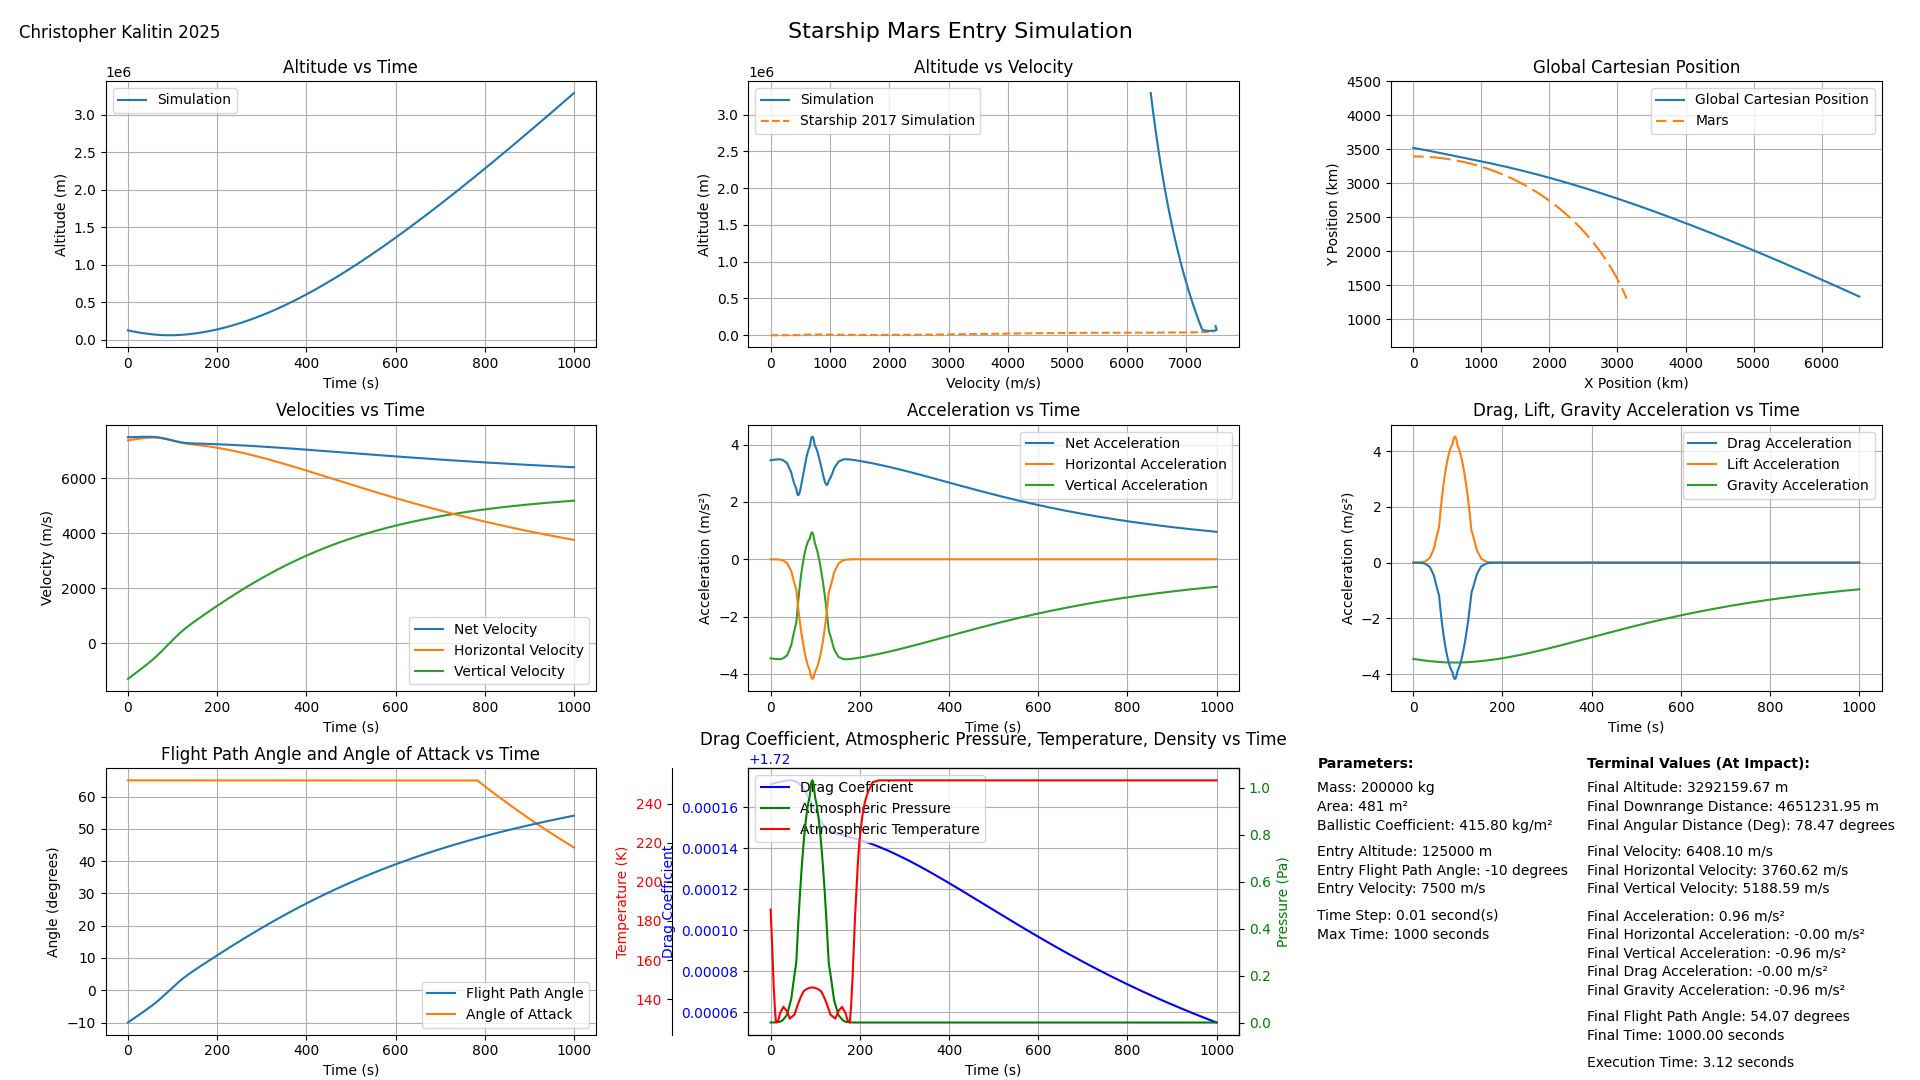
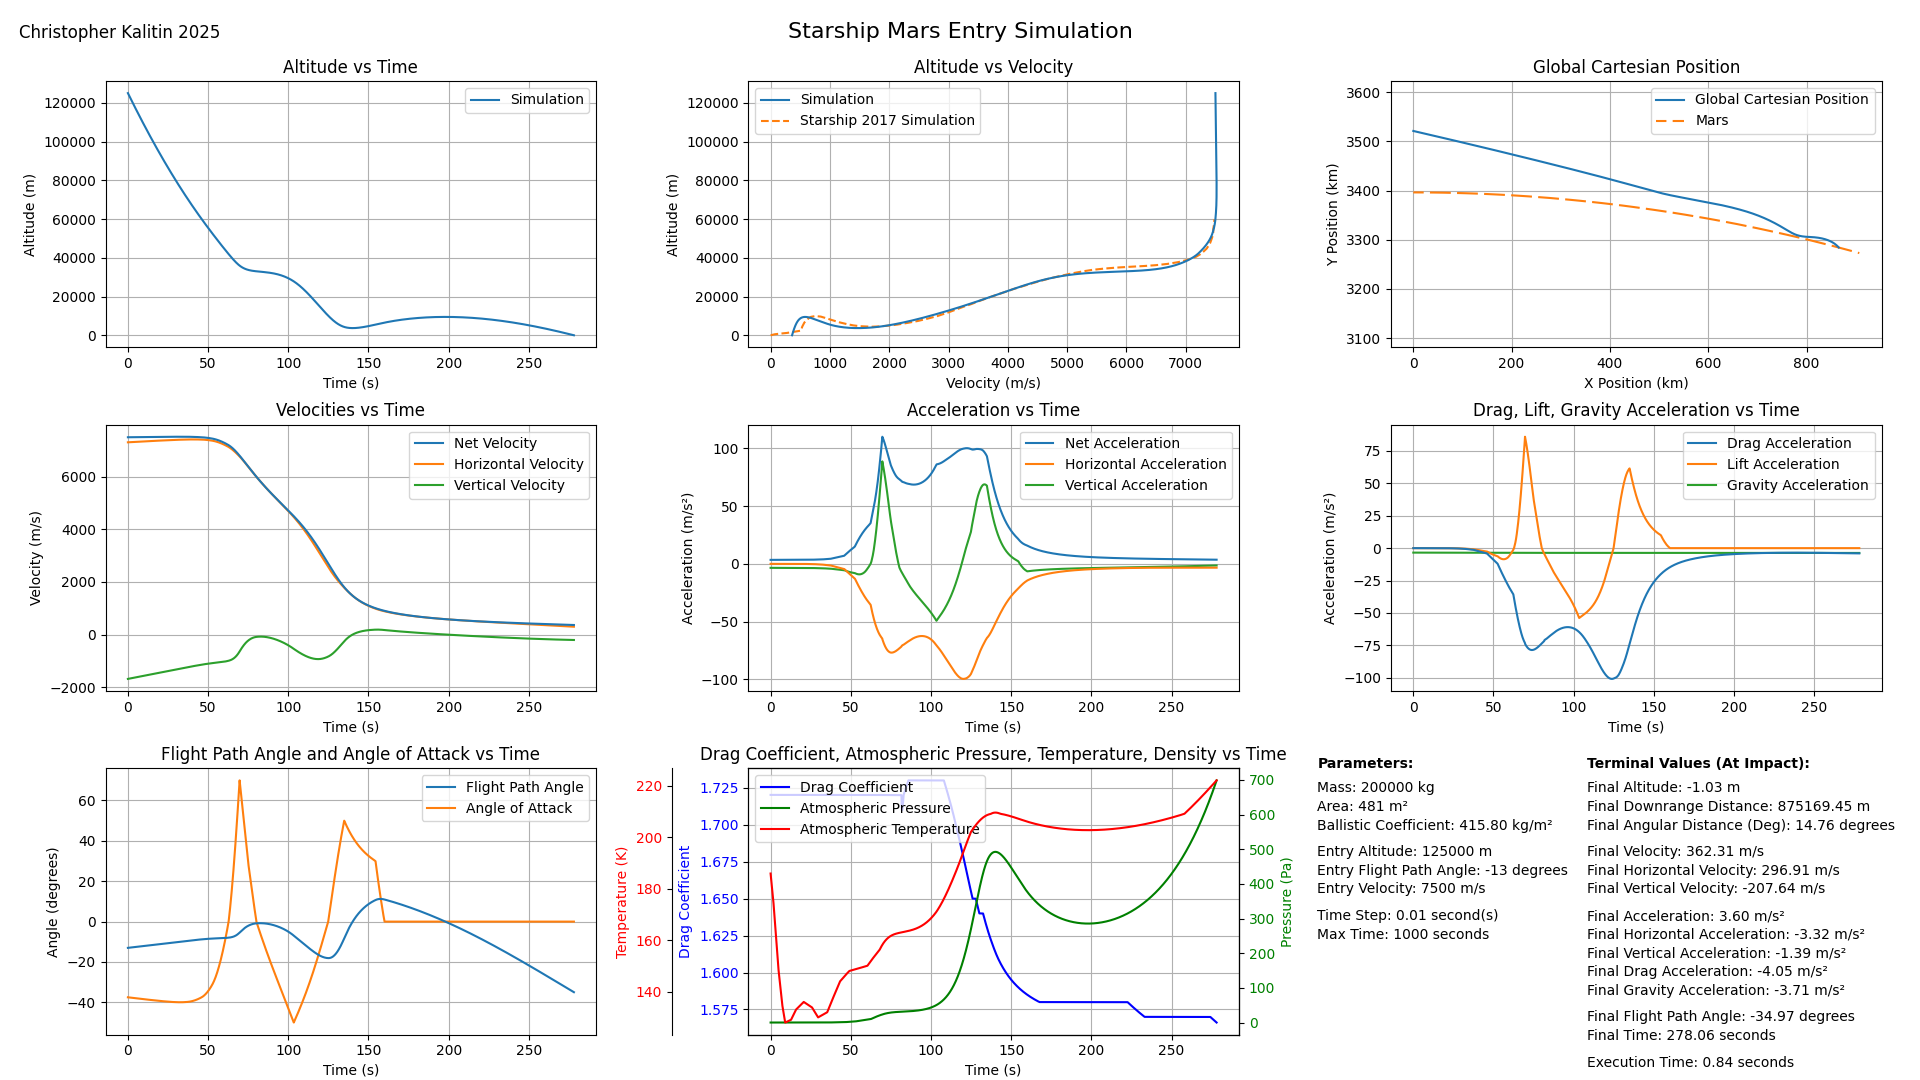
Fixed backtest aoa vs vel arrays

diff --git a/Project/historic_landers.py b/Project/historic_landers.py
@@ -176,9 +176,9 @@ alt_vs_downrange_to_global_cartesian(perseverance)
 curiosity_aoa = [
     (6000, 0),
     (5600, 0),
-    (4800, 12),
-    (3000, 12),
-    (1200, 17),
+    (4500, 3),
+    (3500, 18),
+    (1200, 18),
     (500, 10),
     (0, -15)
 ]
@@ -187,7 +187,7 @@ curiosity_data, curiosity_params = sim_polar.simulate(
     mass=3300,
     area=15.9,
     entry_altitude=125000,
-    entry_flight_path_angle=-18, # Reality: -14
+    entry_flight_path_angle=-20, # Reality: -14
     entry_velocity=5700,
     aoa_function=curiosity_aoa,
     time_step=0.01,
@@ -246,15 +246,16 @@ opportunity_data, opportunity_params = sim_polar.simulate(
 
 # Starship
 starship_aoa = [
-    (7600, 65),
-    (6600, 65),
+    (7600, -50),
+    (7200, 0),
+    (6800, 70),
+    (6400, 30),
     (6000, 0),
-    (5500, 0),
-    (4500, -30),
-    (2300, 0),
-    (1600, 50),
-    (800, 20),
-    (500, 0),
+    (4500, -50),
+    (2700, 0),
+    (1800, 50),
+    (1000, 30),
+    (900, 0),
     (300, 0)
 ]
 # Fitting to the Starship trajectory is actually not ideal, it starts its burn way too early, ~500m/s. I can do better!
@@ -263,7 +264,7 @@ starship_data, starship_params = sim_polar.simulate(
     mass=200000,
     area=481,
     entry_altitude=125000,
-    entry_flight_path_angle=-10,
+    entry_flight_path_angle=-13,
     entry_velocity=7500,
     aoa_function=starship_aoa,
     time_step=0.01,

diff --git a/Project/sim_polar.py b/Project/sim_polar.py
@@ -20,6 +20,7 @@ import utils_data
 
 # TODO:
 # - Bank angle (angle between normal of the vehicle and normal of the surface)
+# - Parachute (not too hard, just use parachute area and drag coefficient)
 
 @dataclass
 class SimData:
